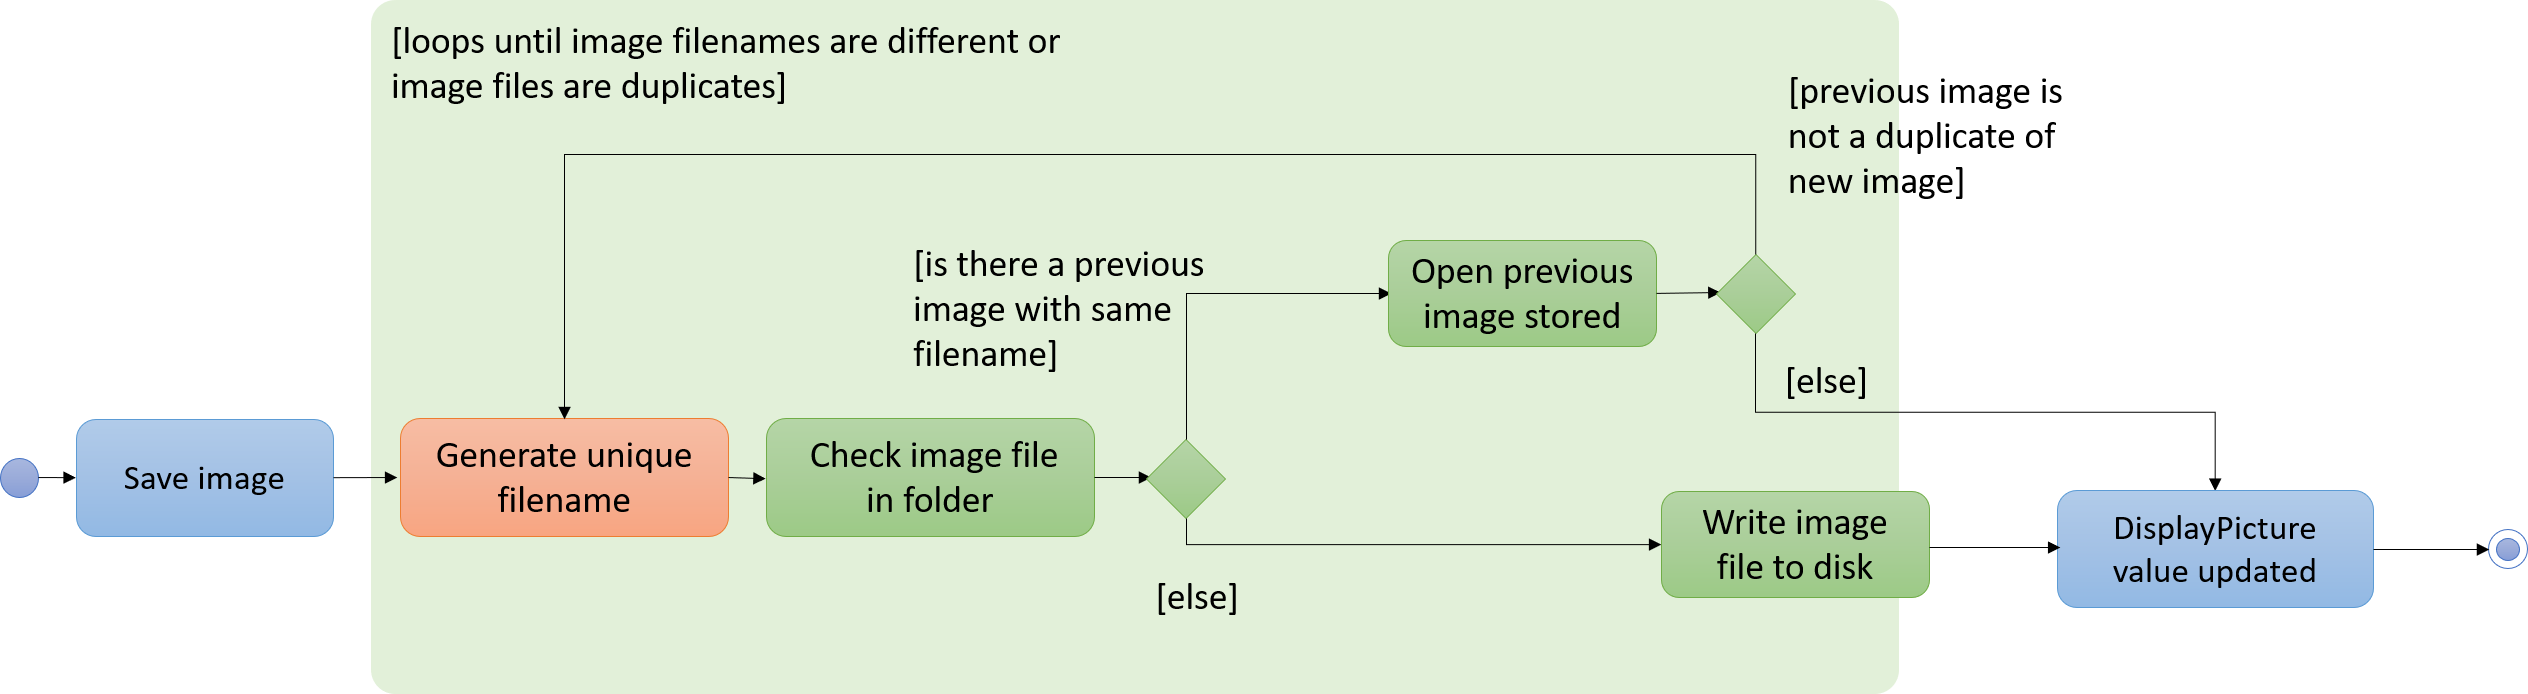
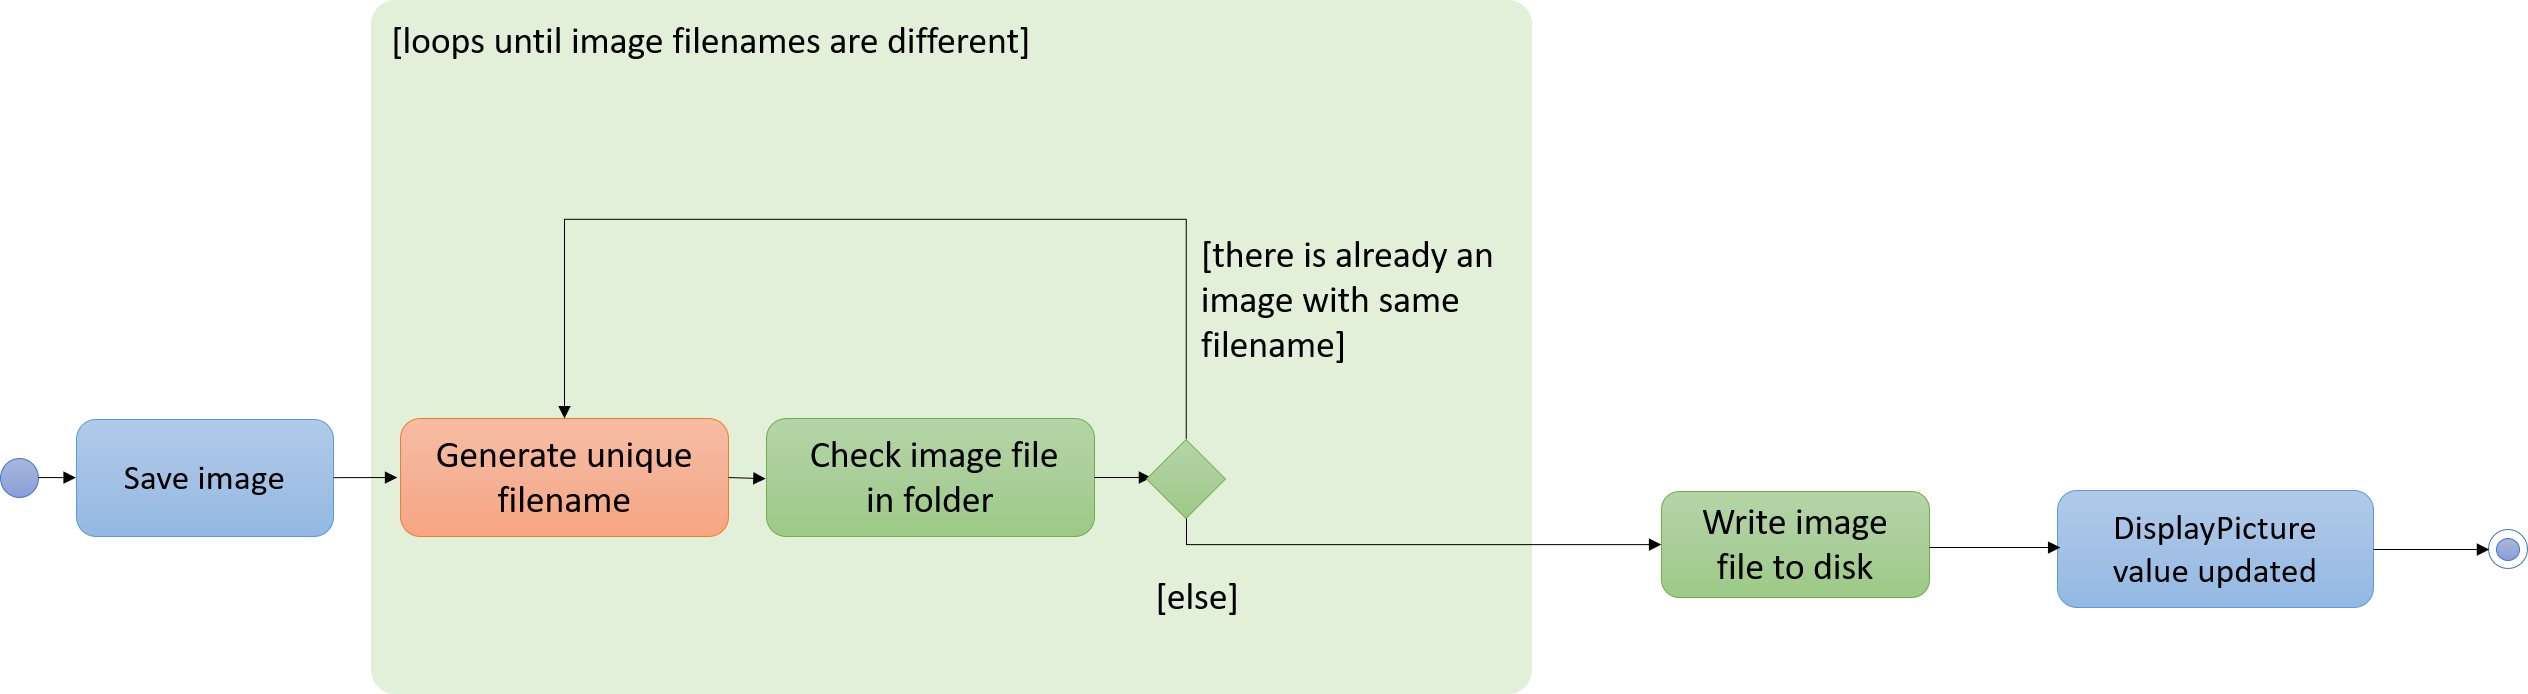
Storage: Removed check if duplicate image when creating filename Documentation: Updated DG diagram with change

Changed region(s): [[0.3438, 0.0, 0.8125, 1.0], [0.1562, 0.0908, 0.3125, 0.1513]]

diff --git a/src/main/java/seedu/address/commons/util/FileUtil.java b/src/main/java/seedu/address/commons/util/FileUtil.java
@@ -111,38 +111,6 @@ public class FileUtil {
     }
 
     /**
-     * Checks if the two given files are binary equivalent.
-     * @param file1 is a file on harddisk
-     * @param file2 is a different file from @code file1 on the harddisk
-     * @return whether the two files given are equal
-     * @throws IOException when there is an issue reading from either file
-     */
-    public static boolean isSameFile(File file1, File file2) throws IOException {
-        if (file1.length() != file2.length()) {
-            return false;
-        }
-
-        BufferedInputStream bisO = new BufferedInputStream(new FileInputStream(file1));
-        BufferedInputStream bisN = new BufferedInputStream(new FileInputStream(file2));
-        byte[] bufferO = new byte[4096];
-        byte[] bufferN = new byte[4096];
-        int fileBytes1 = bisO.read(bufferO);
-        bisN.read(bufferN);
-        while (fileBytes1 != -1) {
-            if (!Arrays.equals(bufferO, bufferN)) {
-                bisO.close();
-                bisN.close();
-                return false;
-            }
-            fileBytes1 = bisO.read(bufferO);
-            bisN.read(bufferN);
-        }
-        bisO.close();
-        bisN.close();
-        return true;
-    }
-
-    /**
      * Copies a file over. The new file will be binary equivalent to the original.
      */
     public static void copyFile(String origFile, File outputFile) throws IOException {

diff --git a/unused/FileUtilUnused.java b/unused/FileUtilUnused.java
@@ -1,0 +1,34 @@
+
+/**
+ * Checks if the two given files are binary equivalent.
+ * @param file1 is a file on harddisk
+ * @param file2 is a different file from @code file1 on the harddisk
+ * @return whether the two files given are equal
+ * @throws IOException when there is an issue reading from either file
+ */
+//@@author Alaru
+//Unused due to other teammate's feature breaking the original intention, originally from FileUtil
+public static boolean isSameFile(File file1, File file2) throws IOException {
+    if (file1.length() != file2.length()) {
+        return false;
+    }
+
+    BufferedInputStream bisO = new BufferedInputStream(new FileInputStream(file1));
+    BufferedInputStream bisN = new BufferedInputStream(new FileInputStream(file2));
+    byte[] bufferO = new byte[4096];
+    byte[] bufferN = new byte[4096];
+    int fileBytes1 = bisO.read(bufferO);
+    bisN.read(bufferN);
+    while (fileBytes1 != -1) {
+        if (!Arrays.equals(bufferO, bufferN)) {
+            bisO.close();
+            bisN.close();
+            return false;
+        }
+        fileBytes1 = bisO.read(bufferO);
+        bisN.read(bufferN);
+    }
+    bisO.close();
+    bisN.close();
+    return true;
+}

diff --git a/src/main/java/seedu/address/storage/DisplayPicStorage.java b/src/main/java/seedu/address/storage/DisplayPicStorage.java
@@ -113,17 +113,9 @@ public class DisplayPicStorage {
      */
     public static void saveDisplayPic(String uniqueName, String filePath, String fileType)
             throws IllegalValueException {
-        try {
-            File toSave = new File(SAVE_LOCATION + uniqueName + '.' + fileType);
-            File input = new File(filePath);
-            if (!FileUtil.isSameFile(toSave, input)) {
-                FileUtil.copyImage(filePath, toSave);
-                logger.fine("Successfully saved " + uniqueName + '.' + fileType + " to disk.");
-            }
-        } catch (IOException ioe) {
-            logger.fine("Error saving display picture: " + ioe.getMessage());
-            throw new IllegalValueException("Unable to save display picture");
-        }
+        File toSave = new File(SAVE_LOCATION + uniqueName + '.' + fileType);
+        FileUtil.copyImage(filePath, toSave);
+        logger.info("Successfully saved " + uniqueName + '.' + fileType + " to disk.");
     }
 
     /**
